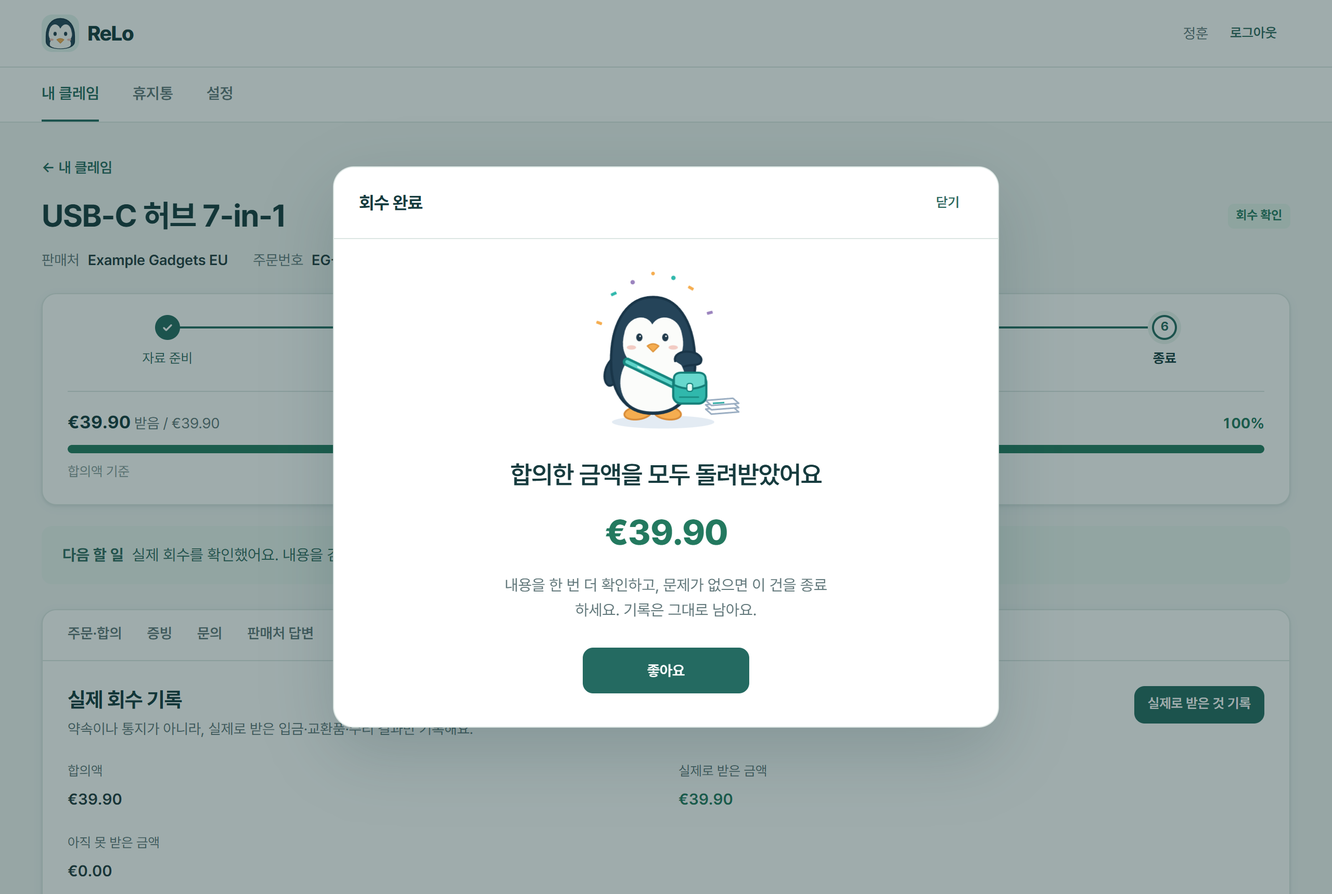
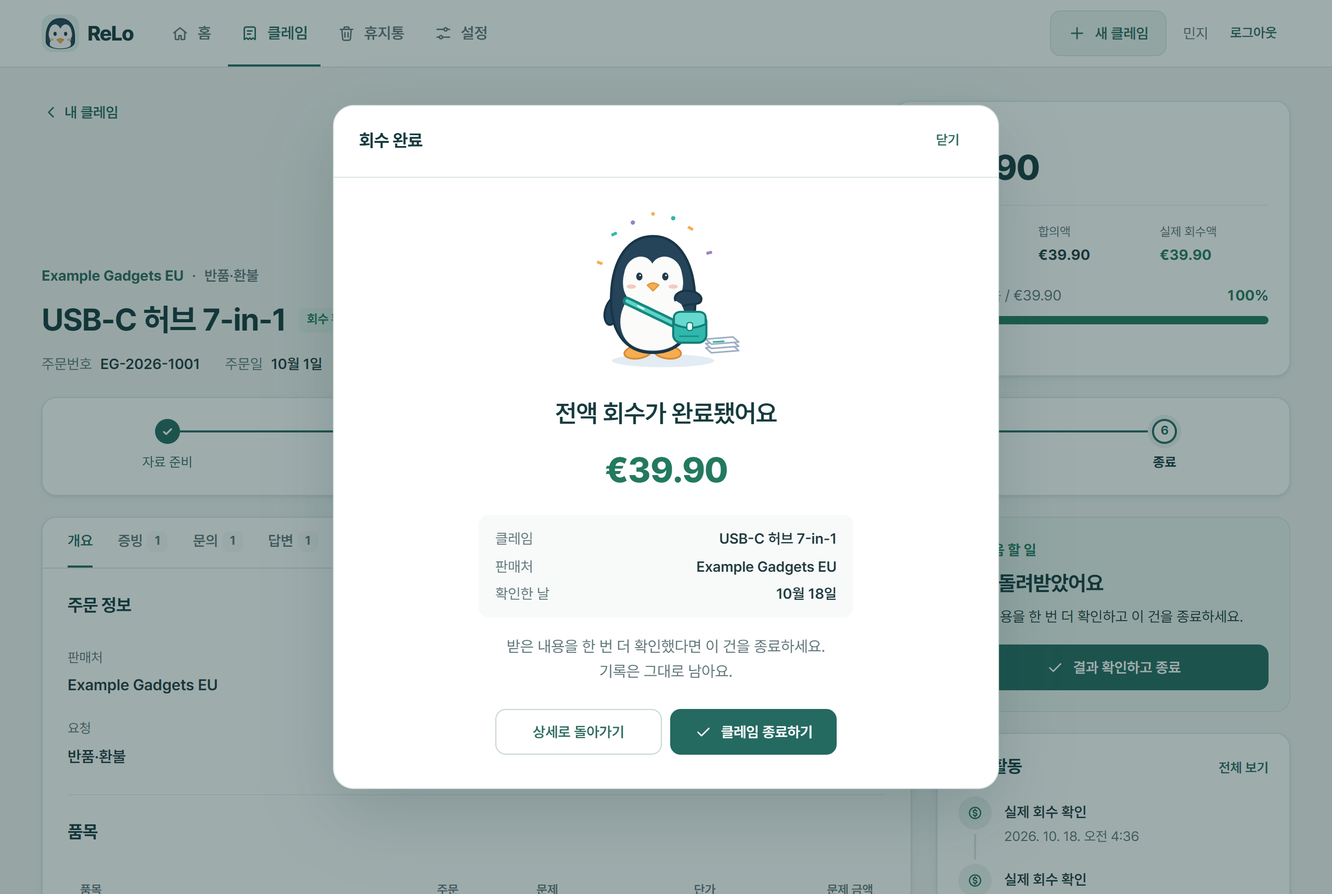
Document the redesign and refresh the screenshots
- DESIGN.md: principles (next action, judge rather than type), navigation,
  per-screen structure, new components (summary/action/claim cards, mini steps,
  timeline, choice cards, amount input, stepper, AI result card), wizard and
  preview behaviour, next-action order, tag colour tokens, pages.css.
- AI.md: POST /api/ai/extract for reading an order document before the claim
  exists (checked like an upload, not stored, usage logged without a claim).
- ARCHITECTURE.md: pages/components folders, handler keys incl. form:<id> and drop.
- README: new screens and features, walkthrough via the next-action card,
  history row, decisions (no extra libraries, wizard in a dialog), follow-ups.
- Screenshots regenerated with sample data (adds claims, wizard, mobile home).
- Claim detail: back link moves into the hero so the left column has no gap.

diff --git a/src/web/styles/pages.css b/src/web/styles/pages.css
@@ -63,8 +63,10 @@
 .back-link { display: inline-flex; align-items: center; gap: var(--space-1); width: fit-content; font-size: var(--text-md); font-weight: 600; text-decoration: none; }
 .back-link .icon { width: 18px; height: 18px; }
 .back-link:hover { text-decoration: underline; }
-.hero { display: grid; grid-template-columns: minmax(0, 1fr) 380px; gap: var(--space-6); align-items: end; }
-.hero-main { display: grid; gap: var(--space-3); min-width: 0; }
+/* Left: the way back at the top, who and what at the bottom, level with the money card. */
+.hero { display: grid; grid-template-columns: minmax(0, 1fr) 380px; gap: var(--space-6); }
+.hero-main { display: flex; flex-direction: column; justify-content: space-between; gap: var(--space-5); min-width: 0; }
+.hero-title { display: grid; gap: var(--space-3); }
 .hero-vendor { display: flex; flex-wrap: wrap; align-items: center; gap: var(--space-2); font-size: var(--text-md); font-weight: 700; color: var(--green-ink); }
 .hero-vendor span { color: var(--muted); font-weight: 600; }
 .hero-vendor span::before { content: '·'; margin-right: var(--space-2); }

diff --git a/docs/DESIGN.md b/docs/DESIGN.md
@@ -2,13 +2,19 @@
 
 화면을 새로 만들거나 고칠 때 이 문서를 기준으로 삼는다. 값은 모두 `src/web/styles/base.css`의 토큰으로 구현되어 있다. 화면 코드에 숫자를 직접 쓰지 말고 토큰을 쓴다.
 
+스타일 파일: `base.css`(토큰, 기본 글자, 상단 바·하단 탭), `components.css`(버튼·카드·폼·다이얼로그처럼 여러 화면에서 쓰는 조각), `pages.css`(홈·목록·상세·설정의 배치), `dori.css`(도리와 축하 장면).
+
 ## 1. 원칙
 
-1. **돈과 사실이 주인공이다.** 사용자가 가장 궁금한 것은 "아직 못 받은 돈"이다. 화면마다 그 정보가 가장 먼저 보이게 한다.
-2. **한 화면에 주요 행동은 하나.** 주요 버튼(채운 초록 버튼)은 화면당 하나만 둔다. 나머지는 테두리 버튼이나 텍스트 버튼으로 한다.
-3. **조용한 바탕에 기억할 요소 하나.** 그 요소는 도리(펭귄)와 "받아야 할 금액" 숫자다. 나머지는 장식하지 않는다.
-4. **모션은 사용자 행동의 결과를 보여 줄 때만 쓴다.** 무언가 열리고, 닫히고, 저장됐다는 것을 알릴 때만 움직인다. 들어올 때마다 미끄러지는 장식 애니메이션은 쓰지 않는다.
-5. **누구나 쓸 수 있어야 한다.** 키보드, 스크린리더, 큰 글씨, 모션 줄이기 설정, 375px 휴대폰까지 지원한다.
+ReLo는 "해외 직구 클레임을 돈 중심으로 쉽게 신청하고, 단계별로 안심하고 추적하는 개인용 서비스"다. 홈은 **현황판**, 클레임 상세는 **실행판**, 새 클레임은 **단계형 신청**이다.
+
+1. **돈과 사실이 주인공이다.** 사용자가 가장 궁금한 것은 "아직 못 받은 돈"이다. 화면마다 그 정보가 가장 먼저 보이게 한다. 청구액·합의액·실제 회수액·미회수 금액을 항상 나눠서 보여 준다.
+2. **한 화면에 주요 행동은 하나.** 주요 버튼(채운 초록 버튼)은 화면당 하나만 둔다. 나머지는 테두리 버튼이나 텍스트 버튼으로 한다. 상태 직접 바꾸기·정정·삭제·복원 같은 드문 행동은 접어 둔 2차 위치(예: 상세의 "사건 관리")에 둔다.
+3. **다음 행동을 하나로 알려 준다.** 사용자가 "이제 뭘 하지?"를 고민하지 않게 한다. 클레임마다 다음 할 일 하나와 그 일을 하는 버튼을 보여 준다(`selectNextAction`).
+4. **입력보다 판단.** AI와 문서 읽기가 칸을 채우고, 사용자는 확인한다. AI가 채운 칸은 보라색으로 표시하고, 사용자가 고치면 표시가 사라진다. 저장은 항상 사용자가 한다.
+5. **조용한 바탕에 기억할 요소 하나.** 그 요소는 도리(펭귄)와 "받아야 할 금액" 숫자다. 나머지는 장식하지 않는다.
+6. **모션은 사용자 행동의 결과를 보여 줄 때만 쓴다.** 무언가 열리고, 닫히고, 저장됐다는 것을 알릴 때만 움직인다. 들어올 때마다 미끄러지는 장식 애니메이션은 쓰지 않는다.
+7. **누구나 쓸 수 있어야 한다.** 키보드, 스크린리더, 큰 글씨, 모션 줄이기 설정, 375px 휴대폰까지 지원한다.
 
 ## 2. 레이아웃과 정렬
 
@@ -18,12 +24,54 @@
 
 | 이름 | 폭 | 바깥 여백 | 내비게이션 |
 |---|---|---|---|
-| 모바일 | ≤ 640px | 16px | 하단 탭 바 (아이콘+글자, 안전 영역 포함) |
-| 태블릿 | 641–1023px | 24px | 상단 탭 |
-| 데스크톱 | ≥ 1024px | 32px | 상단 탭 |
+| 모바일 | ≤ 640px | 16px | 하단 탭 바 5칸 (아이콘+글자, 안전 영역 포함) |
+| 태블릿 | 641–1023px | 24px | 상단 바 하나에 메뉴 |
+| 데스크톱 | ≥ 1024px | 32px | 상단 바 하나에 메뉴 |
 
 - 본문 최대 폭은 1200px이고 가운데에 둔다(`margin-inline: auto`).
 - 문단 최대 폭은 70자(`max-width: 70ch`)다.
+
+### 내비게이션
+
+| 화면 | 주소 | 데스크톱·태블릿 | 모바일 하단 탭 |
+|---|---|---|---|
+| 홈 | `#/` | 상단 바 메뉴 | 1번째 |
+| 클레임 | `#/claims`, `#/claims/:id[/:tab]` | 상단 바 메뉴 | 2번째 |
+| 새 클레임 | (다이얼로그) | 상단 바 오른쪽 고정 버튼 "새 클레임"(`btn accent`) | 3번째, 가운데 **떠 있는 초록 원 버튼** "새 신청" |
+| 휴지통 | `#/trash` | 상단 바 메뉴 | 4번째 |
+| 설정 | `#/settings` | 상단 바 메뉴 | 5번째 |
+
+- 상단 바는 화면 위에 붙어 있다(`position: sticky`). 높이 64px, 모바일 56px.
+- "새 클레임" 버튼은 어디서나 보이지만 페이지의 주요 행동보다 튀지 않게 연한 초록(`btn accent`)으로 한다. 모바일에서는 하단 탭의 "새 신청"이 대신한다.
+- 페이지가 바뀌면 맨 위에서 시작한다. 클레임 상세 안에서 탭만 바꿀 때는 스크롤 위치를 지킨다.
+
+### 화면 구성
+
+**홈 (현황판)** — 로그인하자마자 "얼마가 남았고, 무엇부터 할지"를 안다.
+1. 인사: "안녕하세요, ○○님" + 한 문장.
+2. 요약 카드 4개: **아직 돌려받지 못한 금액**(초록으로 채운 큰 카드, 통화별 한 줄씩) · 진행 중 건수 · 답변 대기 건수 · 이번 달 회수 금액. 못 받은 금액은 진행 중인 **반품·환불** 건만 센다(교환·AS는 돈이 아니라 물건·수리를 받는다).
+3. 지금 해야 할 일: 바로 할 수 있는 일부터 최대 3건(`selectTodo`). 줄마다 상품명·판매처, 다음 할 일, 상태 배지, 남은 금액·회수율, 그 일을 시작하는 버튼.
+4. 진행 중인 클레임: 클레임 카드 최대 4장 + "전체 보기".
+5. 최근 활동(오른쪽 열, 데스크톱에서 화면에 붙어 따라옴): 여러 클레임의 기록을 시간순으로.
+- 클레임이 하나도 없으면 도리 + "아직 등록한 클레임이 없어요" + [첫 클레임 등록하기] + 진행 순서 5단계 안내만 보여 준다.
+
+**클레임 목록** — 검색, 상태 칩(전체·진행 중·분쟁·종료·포기, 건수 표시), 판매처·통화 선택, 정렬(최근 수정 순·미회수 금액 순·진행 단계 순). 미회수 금액 순은 통화가 다르면 비교할 수 없으므로 **통화별로 묶은 뒤** 금액 순으로 놓고, 그렇다고 결과 줄에 적는다. 카드는 데스크톱 3열, 모바일 1열.
+
+**클레임 상세 (실행판)**
+- 위: 왼쪽에 판매처·요청 종류, 상품명 + 상태 배지, 주문번호·주문일·마지막 저장. 오른쪽에 **금액 카드**(못 받은 금액 크게 → 청구액·합의액·실제 회수액 → 회수 막대).
+- 그 아래 전체 폭의 6단계 진행 카드.
+- 데스크톱은 2열: 왼쪽 탭(개요·증빙·문의·답변·회수 기록·활동 내역, 기록 수 표시), 오른쪽 위에서부터 **다음 할 일 카드** → 최근 활동 5건 → 접힌 "사건 관리"(상태 직접 바꾸기, 휴지통으로 이동).
+- 모바일·태블릿은 1열: 금액 카드 → 단계 → 다음 할 일 → 탭(칩 모양 버튼) → 사건 관리 → 최근 활동.
+
+**새 클레임 (단계형 신청)** — 다이얼로그 하나에 5단계: ① 기본 정보(판매처·주문번호·주문일·상품명·처리 방식) ② 주문·금액(통화·품목·청구액·합의액) ③ 문제 내용(한국어 설명·영문 설명·판매처 기한) ④ 증빙 ⑤ 확인. 데스크톱은 가운데 720px, 모바일은 화면 전체. 자세한 동작은 7장 "단계 진행"과 9장.
+
+**문의 준비** — 문의 탭은 "받는 곳" 띠 → 초안 도구(AI로 초안·기본 틀·직접 작성) → 메시지 카드(상태 배지, 제목, 본문, 복사·수정·보냈어요). 편집 다이얼로그는 980px로 넓게, 왼쪽에 받는 곳·AI 요약·**보내기 전에 채울 항목**·제목·본문, 오른쪽에 사건 요약·증빙 목록·최근 답변을 둔다. 모바일은 화면 전체에 위아래로.
+
+**설정 (개인 데이터 관리 센터)** — 한 열 카드: 계정 정보 → 이메일 인증 → AI 기능 → 내 데이터 내보내기 → (간격을 두고 빨간 테두리) 회원 탈퇴.
+
+**휴지통** — 지운 클레임 카드(삭제일, 복원 버튼)와 "저절로 지워지지 않고 탈퇴 때만 영구 삭제된다"는 안내.
+
+**로그인·가입** — 가운데 카드. 아래에 약속 세 줄: 내 기록은 본인만 본다 · AI는 동의한 경우에만 · 판매처에 대신 연락하거나 돈을 받지 않는다.
 
 ### 무엇을 가운데에 두나
 
@@ -34,7 +82,8 @@
 | 회수 완료 축하 | 다이얼로그 안 **정중앙**: 도리(180px) → 제목 → 금액 → 안내 → 버튼 |
 | 진행 단계 | 클레임 제목 아래 카드에 **가로 전체 폭**으로 6칸을 고르게 나눈다 |
 | 도리 준비 화면 | 다이얼로그 안에서 **정중앙** |
-| 다이얼로그 | 데스크톱·태블릿은 화면 **정중앙**. 모바일은 **하단 시트**(폭 100%, 아래에 붙음) |
+| 다이얼로그 | 데스크톱·태블릿은 화면 **정중앙**. 모바일은 **하단 시트**(폭 100%, 아래에 붙음). 새 클레임과 문의 편집은 모바일에서 **화면 전체** |
+| 다음 할 일 카드 | 데스크톱은 상세 오른쪽 열 맨 위, 모바일은 단계 카드 바로 아래 |
 | 토스트 | **하단 가운데**. 모바일은 하단 탭 바 위 |
 | 목록, 표, 폼, 상세 내용 | **왼쪽 정렬.** 읽는 흐름을 지키기 위해 가운데 정렬하지 않는다 |
 | 금액 숫자 열 | 오른쪽 정렬, `tabular-nums` |
@@ -91,6 +140,8 @@
 - 주요 색 `--green` #246a61 하나로 행동을 표시한다.
 - AI가 만든 내용에만 보라빛 `--ai-*`를 쓴다.
 - 경고는 `--warning-*`, 위험은 `--danger`.
+- 상태 배지와 태그는 `--tag-*` 짝(연한 바탕 + 진한 글자)을 쓴다: 회수(초록), 답변 대기·환불 통지(파랑), 검토(보라), 분쟁·포기(주황), 종료(회색).
+- 초록으로 채운 면(홈의 못 받은 금액 카드, 선택된 칩) 위의 보조 글자는 `--on-green-muted`다.
 - 본문 대비 4.5:1 이상. 색이 들어간 바탕 위에 회색 글자를 쓰지 않는다.
 - 그라데이션은 쓰지 않는다. 그림자는 초록빛 섞인 옅은 그림자 두 단계(`--shadow-sm`, `--shadow-lg`)만 쓴다.
 
@@ -102,14 +153,27 @@
 | 입력칸 | 높이 44px, 1px 테두리, `--radius-md`, 모바일 글자 16px(확대 방지) | 초점: 테두리 초록 + 링. 오류: 빨간 테두리 + 아래 문장 |
 | 카드·패널 | `--radius-lg`, 1px 테두리 + `--shadow-sm` | 카드 안에 카드를 넣지 않는다 |
 | 상태 배지 | 높이 24px, `--radius-sm`, 12px 글자 | 상태별 색 |
-| 탭 | 글자 + 아래 2px 표시줄 | 현재 탭은 굵게 + 초록 표시줄 |
-| 다이얼로그 | 최대 폭 640px, `--radius-xl`, 위 제목줄 고정 | 열림·닫힘 모션은 8장 |
+| 탭 | 글자 + 아래 2px 표시줄, 기록 수 배지 | 현재 탭은 굵게 + 초록 표시줄. 모바일은 칩 모양 버튼 줄(스와이프 아님), 현재 탭은 초록으로 채움 |
+| 아이콘 | 24px 격자 선 아이콘(`icons.view.mjs`), `currentColor`, 보통 18–20px | 항상 글자와 함께 쓰고 `aria-hidden`. 이모지는 쓰지 않는다 |
+| 칩 | 높이 36px(터치 44px), `--radius-md` | 필터용. 선택되면 초록으로 채우고 건수는 `--on-green-muted` |
+| 요약 카드 | 홈 맨 위 4장. 큰 카드는 초록으로 채우고 금액 40px(모바일 34px) | 금액은 통화별 한 줄. 데스크톱 4열, 태블릿은 큰 카드 한 줄 + 3열, 모바일은 큰 카드 + 2열 |
+| 행동 카드 (다음 할 일) | 연한 초록 면, 제목 20px + 한 문장 + 버튼 | 화면의 주요 버튼은 여기에 둔다. 주의가 필요하면(분쟁, 추가 증빙 요청, 다시 써야 할 초안) 노란 면, 끝난 건은 회색 면 |
+| 클레임 카드 | 카드 전체가 링크(제목 링크가 카드를 덮음) | 머리(상품명·판매처·배지) → 미니 진행 → 청구·합의·회수·미회수 4칸 → 회수 막대 → 마지막 활동. 분쟁 건은 노란 테두리. 카드 안 버튼(복원)은 링크 위에 둔다 |
+| 미니 진행 | 6칸 짧은 막대(높이 6px) + 현재 단계 이름과 "3/6" | 지난 칸 초록, 현재 칸 연한 초록 + 테두리(분쟁이면 노랑) |
+| 활동 타임라인 | 32px 원형 아이콘 + 한 줄 + 시간, 세로 연결선 | 홈은 클레임 이름도 함께. 상세의 활동 내역은 바뀐 칸을 "합의액: 없음 → €39.90"처럼 글로 보여 주고, 원본 기록은 접어 둔다 |
+| 증빙 카드 | 64px 미리보기(사진은 썸네일, PDF는 아이콘) + 이름·종류·크기·날짜 + 버튼 줄 | 드래그해서 놓는 영역은 점선, 끌어오는 동안 초록 |
+| 선택 카드 | 라디오를 감싼 큰 카드(아이콘 + 이름 + 한 줄 설명) | 처리 방식, 답변 종류. 선택되면 초록 테두리 + 연한 초록 면 |
+| 금액 입력 | 입력칸 왼쪽 안에 통화 코드 | 통화를 바꾸면 모든 금액 칸의 통화 코드가 함께 바뀐다 |
+| 단계 진행 (새 클레임) | 28px 번호 원 5개와 연결선, 아래에 단계 이름 | 지난 단계는 초록 원 + 체크(누르면 그 단계로 돌아감), 현재 단계는 초록 테두리 + 고리. 아래 버튼은 [이전] [다음], 마지막 단계에서만 [등록하기] |
+| AI 결과 카드 | 보라 면, "미리보기" 태그 | 요약 → 추천 유형·언급된 금액·기한 → **추천 다음 행동** → 번역(접힘). 저장 전 사용자가 확인한다 |
+| 다이얼로그 | 최대 폭 640px(새 클레임 720px, 문의 편집 980px), `--radius-xl`, 위 제목줄 고정 | 열림·닫힘 모션은 8장 |
 | 토스트 | `--radius-md`, 진한 초록 바탕 | 5초 뒤 사라짐, `aria-live="polite"` |
 | 빈 상태 | 가운데 정렬, 제목 + 한 문장 + 버튼 1개 | |
 | 불러오는 중 | 실제 모양을 닮은 회색 막대(스켈레톤) | 1초 선형 반복 깜빡임 |
 | 진행 단계 | 지름 24px 원 6개와 2px 연결선. 단계: 자료 준비 → 문의 → 답변 대기 → 합의 → 회수 → 종료 | 지난 단계는 초록 원+체크, 현재 단계는 초록 테두리+4px 연한 고리+굵은 글자, 남은 단계는 회색. 분쟁이면 현재 단계를 노란색으로 하고 "(분쟁)"을 붙인다. 포기면 전체를 흐리게 하고 안내 문장을 단다 |
 | 회수 막대 | 네이티브 `<progress>`, 높이 8px(목록은 6px), 모서리 4px | "받은 것 / 목표"와 %를 같이 쓴다. 목표는 합의액(없으면 청구액), 교환은 수량, AS는 수리 확인 여부 |
-| 도리 | sm 88px, md 120px, lg 180px. 장식이라 스크린리더에서 숨긴다 | 쓰는 곳: 로그인·가입(인사), 첫 빈 대시보드·빈 휴지통·찾을 수 없음(서류 든 자세), 문의 준비(정리 동작), 회수 완료(축하). 탭 안 빈 상태에는 쓰지 않는다(반복 금지) |
+| 도리 | sm 88px, md 120px, lg 180px. 장식이라 스크린리더에서 숨긴다 | 쓰는 곳: 로그인·가입(인사), 첫 빈 홈·빈 클레임 목록·빈 휴지통·찾을 수 없음(서류 든 자세), 문의 준비(정리 동작), 회수 완료(축하). 탭 안 빈 상태에는 쓰지 않는다(반복 금지) |
+| 회수 완료 축하 | 도리 → "전액 회수가 완료됐어요" → 금액 → 클레임·판매처·확인한 날 → [상세로 돌아가기] [클레임 종료하기] | 게임처럼 화려하지 않게, 안심과 성취감 위주 |
 
 ## 8. 모션: 언제, 얼마나
 
@@ -139,6 +203,8 @@
 | 모바일 하단 시트가 열릴 때 | 화면 아래에서 위로(`translateY(100%→0)`) | 320ms ease-out (닫힘 200ms) |
 | 토스트가 나타날 때 | 아래 12px에서 올라오며 나타남 | 220ms ease-out (사라짐 150ms) |
 | 페이지·탭을 바꿀 때 | 새 내용이 투명→불투명(미끄러짐 없음) | 160ms ease-out, 경로가 바뀔 때만 |
+| 새 클레임의 단계를 바꿀 때 | 새 단계가 투명→불투명 | 160ms ease-out |
+| 모바일 "새 신청" 원 버튼을 누를 때 | `scale(.96)` | 100ms |
 | 목록을 처음 불러올 때 | 스켈레톤 깜빡임 | 1s linear 반복. 데이터가 오면 바로 교체, 줄마다 순서대로 나타나기 없음 |
 | 도리가 문의를 준비할 때 | 서류 정리 반복 동작 | 1.6s 반복. 최소 2.5초 보여 줌. 취소하면 바로 멈춤 |
 | 로그인·가입 화면이 열릴 때 | 도리가 날개를 흔든다 | 1.2s ease-in-out × 2회, 화면이 바뀔 때만 |
@@ -155,6 +221,16 @@
   - 브라우저 기본 말풍선은 쓰지 않는다. 같은 자리에 한국어 문장을 띄운다.
   - 서버가 거절하면 응답의 `field`(예: `claimedAmount`, `items.0.unitPrice`) 자리에 띄운다. 칸을 특정할 수 없는 오류만 폼 맨 아래에 둔다.
   - 그 칸을 다시 고치기 시작하면 문장이 사라진다.
+- **단계형 폼(새 클레임)**:
+  - [다음]은 지금 단계의 칸만 검사한다. 틀린 칸이 있으면 단계가 넘어가지 않는다.
+  - 마지막 단계 전에는 입력칸에서 Enter가 [다음]과 같다. 여러 줄 입력칸의 Enter는 줄 바꿈이다.
+  - 등록 때 서버가 거절한 칸이 다른 단계에 있으면 그 단계로 돌아가 칸 아래에 문장을 띄운다. 접힌 칸(판매처 기한)은 펼친다.
+  - 품목의 "문제 수량 × 단가" 합계를 보여 주고 [청구액으로 쓰기]를 제안한다. 같으면 "청구액과 같아요"라고만 쓴다.
+  - 4단계에서 고른 증빙은 클레임이 만들어진 뒤에 하나씩 올린다. 형식·크기가 틀린 파일은 고르는 순간 알린다. 올리지 못한 파일이 있으면 클레임은 그대로 두고 이름을 알려 증빙 탭으로 보낸다.
+  - "주문서로 자동 채우기"로 읽은 파일은 4단계 증빙 목록에도 들어간다.
+- **AI가 채운 칸**: 보라 테두리와 연한 보라 면. 사용자가 그 칸을 고치면 표시가 사라진다. 채운 항목을 AI 안내 상자에 적는다.
+- **저장 전 미리보기(회수 기록)**: 금액이나 수량을 치는 대로 "실제 회수액 €0.00 → €20.00, 회수율 0% → 50%"를 보여 준다. 목표를 넘으면 노란 경고, 딱 맞으면 "합의액을 모두 받게 돼요".
+- **답변 기록**: 답변 종류를 고르면 저장하면 무엇이 바뀌는지 한 줄로 알려 준다(예: "분쟁으로 바뀌어요").
 - **그 밖의 오류**: 토스트로 띄우고, 무엇을 하면 되는지 쓴다.
 - **AI 기다림**: 실제 응답은 7~19초가 걸린다. 누른 버튼 **바로 아래**에 보라색 진행 줄을 띄운다.
   - 순서: 회전 표시 → "AI가 ○○하는 중…" → "보통 10초 안팎 걸려요" → 지난 초 → [취소]
@@ -169,6 +245,7 @@
 - **토스트 위치**: 다이얼로그가 열려 있으면 다이얼로그 안 **위쪽 가운데**에 띄운다. 아래 버튼을 가리지 않고, 모달 뒤에 숨지도 않는다.
 - **오프라인**: 맨 위 띠. 연결이 돌아오면 토스트로 알린다.
 - **이메일 미인증**: 맨 위 초록 띠(`--green-soft`). 문장은 왼쪽, '인증 메일 다시 받기' 테두리 버튼은 오른쪽(본문 열에 맞춤). 모바일은 버튼을 문장 아래 전체 폭으로 내린다. 인증하면 사라진다. 주요 버튼이 아니므로 채운 버튼을 쓰지 않는다.
+- **다음 할 일 순서**(`selectNextAction`): 휴지통 → 종료 → 포기 → 모두 받음(종료하기) → 분쟁 → 증빙 없음 → 초안 없음 → 다시 써야 할 초안 → 보내지 않은 초안 → 답변 대기 → 추가 증빙 요청 → 합의액 없음(환불) → 회수 기록. 홈의 "지금 해야 할 일"은 바로 할 수 있는 일(종료·분쟁·회수·합의액·증빙 보강·보내기·초안·증빙)을 먼저, 기다리는 일(답변 대기)을 나중에 놓는다.
 - **메일 링크로 여는 화면**(인증·재설정): 인증은 페이지가 아니라 동작이라 결과를 토스트로 알리고 대시보드나 로그인으로 보낸다. 재설정은 로그인 카드와 같은 가운데 카드다. 비밀번호 재설정 요청 뒤에는 계정 유무와 상관없이 같은 '메일함을 확인하세요' 화면을 보여 준다.
 - **되돌릴 수 없는 행동**: 확인 다이얼로그를 띄운다(삭제, 탈퇴). 탈퇴는 비밀번호까지 받는다.
 

diff --git a/README.md b/README.md
@@ -6,15 +6,19 @@
 
 ## 화면
 
-| 로그인 | 대시보드 |
+홈은 **현황판**(얼마가 남았고 무엇부터 할지), 클레임 상세는 **실행판**(금액·단계·다음 할 일), 새 클레임은 **5단계 신청**이다.
+
+| 홈 (현황판) | 클레임 목록 |
 |---|---|
-| ![로그인](docs/screenshots/login.png) | ![대시보드](docs/screenshots/dashboard.png) |
-| **클레임 상세 (진행 단계·회수율)** | **회수 완료 축하** |
-| ![클레임 상세](docs/screenshots/claim-detail.png) | ![회수 완료](docs/screenshots/celebrate.png) |
+| ![홈](docs/screenshots/dashboard.png) | ![클레임 목록](docs/screenshots/claims.png) |
+| **클레임 상세 (금액 카드·진행 단계·다음 할 일)** | **새 클레임 1단계 (주문서로 자동 채우기)** |
+| ![클레임 상세](docs/screenshots/claim-detail.png) | ![새 클레임](docs/screenshots/wizard.png) |
+| **회수 완료** | **로그인** |
+| ![회수 완료](docs/screenshots/celebrate.png) | ![로그인](docs/screenshots/login.png) |
 
-<img src="docs/screenshots/mobile-claim.png" alt="휴대폰 클레임 화면" width="260">
+<img src="docs/screenshots/mobile-home.png" alt="휴대폰 홈 화면" width="260"> <img src="docs/screenshots/mobile-claim.png" alt="휴대폰 클레임 화면" width="260">
 
-휴대폰(390px): 하단 탭 바, 분쟁 건은 노란 단계로 표시된다.
+휴대폰(390px): 하단 탭 바 가운데에 "새 신청" 버튼이 떠 있다. 분쟁 건은 노란 단계와 노란 "다음 할 일"로 표시된다.
 
 ## 주요 기능
 
@@ -24,29 +28,37 @@
 - 비밀번호를 잊으면 재설정 링크(30분, 한 번만)를 받는다. 비밀번호를 바꾸면 모든 기기에서 로그아웃된다.
 - 설정에서 내 데이터 내보내기(JSON), 회원 탈퇴(전체 삭제), AI 처리 동의·철회를 할 수 있다.
 
+### 홈과 목록
+- **홈**: 아직 돌려받지 못한 금액(반품·환불 건, 통화별), 진행 중·답변 대기 건수, 이번 달 회수 금액을 맨 위에 보여 준다. 그 아래 "지금 해야 할 일"(바로 할 수 있는 일부터 3건, 버튼 한 번으로 그 일을 시작), 진행 중인 클레임 카드, 최근 활동.
+- **클레임 목록**(`#/claims`): 검색, 상태 칩(진행 중·분쟁·종료·포기), 판매처·통화로 거르기, 정렬(최근 수정·미회수 금액·진행 단계). 미회수 금액 순은 통화별로 묶어서 정렬한다.
+
 ### 클레임
+- **새 클레임 5단계**: 기본 정보 → 주문·금액 → 문제 내용 → 증빙 → 확인. 단계마다 그 단계 칸만 검사하고, 품목의 "문제 수량 × 단가" 합계를 청구액으로 제안한다. 4단계에서 고른 증빙은 등록할 때 함께 올라간다. AI가 켜져 있으면 1단계에서 **주문서로 자동 채우기**를 쓸 수 있다.
+- **다음 할 일**: 상세 화면이 지금 할 일 하나와 그 버튼을 보여 준다(증빙 올리기 → 문의 초안 → 보냈어요 → 답변 기록 → 합의액 입력 → 회수 기록 → 종료). 분쟁·추가 증빙 요청·다시 써야 할 초안은 노란색으로 알린다. 상태를 직접 바꾸는 일과 휴지통 이동은 "사건 관리"에 접어 두었다.
 - **판매처·통화**: 판매처는 자유롭게 입력한다. 통화는 USD·EUR·GBP·JPY·CNY·KRW·CAD·AUD를 쓸 수 있고, 합계는 통화별로 따로 낸다.
 - **세 가지 금액을 따로 기록**: 청구액, 합의액, 실제로 받은 금액. 판매처의 "환불했다" 통지만으로는 입금으로 치지 않는다.
 - **진행 단계**: 자료 준비 → 문의 → 답변 대기 → 합의 → 회수 → 종료. 분쟁·포기도 표시한다.
 - **회수율 막대**: "받은 것 / 합의액(없으면 청구액)"을 보여 준다. 교환은 수량, AS는 수리 확인 여부로 계산한다.
-- **증빙**: 주문서·사진 등 PDF·PNG·JPG·WebP 파일(10MB까지)을 올린다. 본인만 열 수 있다.
-- **문의**: 영문 문의 초안을 만들고 고쳐서 버전으로 저장한다. 판매처에 직접 보낸 뒤 "보냈어요"를 기록한다. 사건 정보가 바뀌면 예전 초안은 다시 써야 한다고 표시한다.
-- **판매처 답변**: 받은 원문을 붙여 넣고 유형(추가 증빙 요청, 합의 안내, 환불 처리 통지, 거절 등)을 고른다.
+- **증빙**: 주문서·사진 등 PDF·PNG·JPG·WebP 파일(10MB까지)을 끌어 놓거나 골라서 올린다(여러 개 한 번에). 사진은 썸네일로 보인다. 본인만 열 수 있다.
+- **문의**: 영문 문의 초안(AI·기본 틀·직접 작성)을 만들고 고쳐서 버전으로 저장한다. 편집 창은 받는 곳, AI 요약, 보내기 전에 채울 항목, 제목·본문, 옆에 사건 요약·증빙·최근 답변을 보여 준다. 판매처에 직접 보낸 뒤 "보냈어요"를 기록한다. 사건 정보가 바뀌면 예전 초안은 다시 써야 한다고 표시한다.
+- **판매처 답변**: 받은 원문을 붙여 넣고 종류(추가 증빙 요청, 합의 안내, 환불 처리 통지, 거절, 기타)를 카드로 고른다. 고르면 저장했을 때 무엇이 바뀌는지 한 줄로 알려 준다.
 - **실제 회수 기록**: 입금·교환품·수리 결과를 증빙과 함께 기록한다.
+  - 금액을 치는 동안 "실제 회수액 €0.00 → €20.00, 회수율 0% → 50%"처럼 저장 후 모습을 미리 보여 준다.
   - 같은 거래가 두 번 세지지 않게 막는다.
   - 기록은 고치지 않고 "정정" 항목을 추가한다.
-  - 전부 돌려받은 순간 한 번 축하 화면이 뜬다.
-- **휴지통**: 지운 클레임도 증빙·기록은 남고, 복원할 수 있다.
+  - 전부 돌려받은 순간 한 번 축하 화면이 뜨고, 거기서 바로 종료할 수 있다.
+- **활동 내역**: 이 건에서 한 일을 시간순으로, 바뀐 칸은 "합의액: 없음 → €39.90"처럼 글로 보여 준다.
+- **휴지통**: 지운 클레임도 증빙·기록은 남고, 복원할 수 있다. 영구 삭제는 회원 탈퇴 때뿐이다.
 
 ### AI (Google Gemini, 사용자가 동의한 경우만)
-- 기능: 영문 문의 초안, 문제 설명 번역, 판매처 답변 번역·분석, 주문서 PDF·이미지에서 주문 정보 읽기.
-- **AI 결과는 미리보기다.** 사용자가 확인하고 저장해야 반영된다.
+- 기능: 영문 문의 초안, 문제 설명 번역, 판매처 답변 번역·분석(추천 다음 행동 포함), 주문서 PDF·이미지에서 주문 정보 읽기(올린 증빙에서, 또는 새 클레임 1단계에서 클레임을 만들기 전에).
+- **AI 결과는 미리보기다.** 사용자가 확인하고 저장해야 반영된다. AI가 채운 입력칸은 사용자가 고칠 때까지 보라색이다.
 - 기다리는 동안(실측 7~19초) 무엇을 하는 중인지, 몇 초 지났는지, 취소 버튼을 보여 준다.
 
 ### 화면 편의
 - 틀린 입력칸 바로 아래에 한국어 오류를 띄우고 그 칸으로 커서를 옮긴다.
 - 입력하던 창을 닫으려 하면 한 번 묻는다.
-- 휴대폰에서는 하단 탭 바를 쓰고, 창은 아래에서 올라오는 시트로 연다.
+- 휴대폰에서는 하단 탭 바(홈·클레임·새 신청·휴지통·설정)를 쓰고, 창은 아래에서 올라오는 시트로 연다. 새 클레임과 문의 편집은 화면 전체를 쓴다. 상세 탭은 칩 모양 버튼이다.
 - 펭귄 캐릭터 **도리**가 로그인 인사, 빈 화면, 문의 준비, 회수 완료 축하에 나온다.
 - 글꼴은 Pretendard를 함께 배포한다.
 
@@ -151,23 +163,24 @@ docs/         설계 문서와 화면 캡처
 
 ## 처음 온 사람을 위한 안내
 
-1. **한 바퀴 써 본다**: `npm install` → `npm start` → 데모 계정으로 로그인한 뒤 이 순서로 눌러 본다.
-   1. 새 클레임
+1. **한 바퀴 써 본다**: `npm install` → `npm start` → 데모 계정으로 로그인한 뒤 이 순서로 눌러 본다. 2번부터는 상세 화면의 **"다음 할 일" 카드 버튼**만 따라가도 된다.
+   1. 새 클레임(5단계, 4단계에서 증빙을 함께 골라도 된다)
    2. 증빙 올리기
    3. 문의 초안 → 저장 → 보냈어요
-   4. 판매처 답변 기록
-   5. 정보 수정에서 합의액 입력
+   4. 판매처 답변 기록(합의 안내)
+   5. 합의액 입력
    6. 실제로 받은 것 기록(전액이면 축하 화면)
-   7. 종료
+   7. 클레임 종료하기
 
-   AI를 보고 싶으면 `.env`에 `AI_PROVIDER=fake`를 넣는다.
+   AI를 보고 싶으면 `.env`에 `AI_PROVIDER=fake`를 넣는다(새 클레임 1단계의 "주문서로 자동 채우기"도 이걸로 볼 수 있다).
 2. **읽는 순서**: 이 README → [ARCHITECTURE.md](docs/ARCHITECTURE.md) → [DESIGN.md](docs/DESIGN.md) → [AI.md](docs/AI.md).
 3. **고칠 곳 찾기**:
 
    | 고치고 싶은 것 | 위치 |
    |---|---|
-   | 화면 모양·문구 | `src/web/views/` + `src/web/styles/` |
+   | 화면 모양·문구 | `src/web/views/` + `src/web/styles/` (공용 조각 `components.css`, 화면 배치 `pages.css`) |
    | 화면 상태·버튼 동작 | `src/web/viewmodels/` |
+   | "다음 할 일" 순서와 문구 | `src/web/viewmodels/claim-progress.mjs`의 `selectNextAction` |
    | API | `src/server/routes/` → `services/` |
    | 업무 규칙(금액·상태·검증) | `src/server/domain/` |
    | DB | `src/server/repositories/` (구조 변경은 `migrations/`에 새 파일) |
@@ -194,9 +207,10 @@ docs/         설계 문서와 화면 캡처
 | 2026-10-17 | [#3](https://github.com/jeonghun267/AI_Agent/pull/3) | AI 대기 안내와 취소, 입력칸 아래 오류 표시, 작성 중 닫기 경고, 토스트가 창 뒤에 가려지던 문제 수정 |
 | 2026-10-17 | [#4](https://github.com/jeonghun267/AI_Agent/pull/4) | 이메일 인증·비밀번호 재설정, Resend 발송 |
 | 2026-10-17 | [#5](https://github.com/jeonghun267/AI_Agent/pull/5) | UI 꾸미기: 진행 단계·회수율 막대, 도리 인사·축하, Pretendard 글꼴 |
+| 2026-10-18 | `feat/redesign` | **전체 UI/UX 리디자인**: 홈 현황판(못 받은 금액·지금 해야 할 일·최근 활동), 클레임 목록 화면(칩 필터·정렬), 상세 실행판(금액 카드·다음 할 일·사건 관리), 새 클레임 5단계 신청과 주문서로 자동 채우기(`POST /api/ai/extract`), 문의 준비 창·답변 카드·회수 미리보기, 모바일 "새 신청" 탭. 교환·AS 건은 못 받은 금액에서 뺐다 |
 
-검증 상태(2026-10-17):
-- `npm run verify` 통과: 단위·HTTP 57개, 브라우저 3개
+검증 상태(2026-10-18):
+- `npm run verify` 통과: 단위·HTTP 63개, 브라우저 3개
 - 실제 Gemini 4기능 확인 완료
 - 실제 메일 발송은 미확인 (아래 "다음 할 일")
 
@@ -212,6 +226,8 @@ docs/         설계 문서와 화면 캡처
 | AI는 동의한 사용자만 쓰고, 결과는 미리보기다 | 입력이 Google(국외)로 전송된다. 틀린 값이 그대로 저장되면 안 된다 |
 | Gemini 기본 모델 `gemini-3.5-flash-lite` | Google이 새 프로젝트용 저비용 모델로 권장한다(2026-10 기준) |
 | 빌드 도구·프레임워크 없음 | 의존성이 적어야 인수인계와 유지보수가 쉽다 |
+| 차트·검증·이미지 편집 라이브러리(Chart.js, validator.js, Cropper.js)를 넣지 않았다 | 회수 현황은 기본 `<progress>`와 CSS로 충분하고, 입력 검증은 서버 `domain/validation.mjs`가 맡는다. 증빙은 원본 그대로 두는 편이 낫다. 외부 CDN은 CSP(`default-src 'self'`)와 브라우저 시험이 막으므로 쓰려면 파일을 직접 넣어야 한다 |
+| 새 클레임은 페이지가 아니라 다이얼로그 안의 단계형 폼이다 | 다이얼로그는 열린 동안 다시 그리지 않아 입력이 지켜지고, 작성 중 닫기 경고·입력칸 아래 오류를 그대로 쓴다. 모바일에서는 화면 전체를 쓴다 |
 
 ## 다음 할 일
 
@@ -220,6 +236,9 @@ docs/         설계 문서와 화면 캡처
    - 판매처 포인트로 받은 것을 현금 입금과 따로 센다.
 2. **실제 메일 발송 확인**: 도메인이 정해지면 Resend 가입 → 도메인 인증 → `.env`에 `RESEND_API_KEY`·`MAIL_FROM` → `npm run mail:smoke`.
 3. **화면**: 다크 모드, 로그인 전 서비스 소개(랜딩) 페이지.
+   - 증빙 PDF 첫 장 미리보기: 지금은 PDF가 아이콘으로 보인다. CSP가 `blob:` 프레임을 막아서, 하려면 PDF.js를 저장소에 직접 넣어야 한다.
+   - 증빙 역할 태그(주문서·불량 사진·대화 캡처): 파일 표에 칸이 없어서 아직 고르지 않는다. 하려면 `migrations/`에 새 칸을 추가한다.
+   - 작성 중이던 새 클레임 초안을 새로고침 뒤에도 이어 쓰기(지금은 창을 닫을 때 경고만 한다).
 4. **상용화 전에 필요한 것**:
    - **Resend 운영 설정**: 발신 도메인 인증(SPF·DKIM), 운영용 키(발송 전용 권한). 반송·스팸 신고 처리(Resend 웹훅)는 아직 없다.
    - **가입 단계의 이메일 열거**: 가입하면 바로 로그인되므로, 이미 가입한 이메일에는 409로 답할 수밖에 없다(IP당 시간당 10회로 제한). 완전히 막으려면 "메일 링크를 연 뒤에 계정 생성"으로 흐름을 바꿔야 한다. 비밀번호 재설정 요청은 이미 계정 유무를 드러내지 않는다.

diff --git a/docs/AI.md b/docs/AI.md
@@ -9,7 +9,7 @@
    GEMINI_MODEL=            # 비우면 gemini-3.5-flash-lite
    AI_HOURLY_LIMIT=30       # 사용자 1명이 한 시간에 쓸 수 있는 AI 호출 수
    ```
-3. `npm run ai:smoke`로 네 기능을 실제로 한 번씩 호출해 확인한다.
+3. `npm run ai:smoke`로 네 기능을 실제로 한 번씩 호출해 확인한다. (새 클레임의 "주문서로 자동 채우기"는 주문 정보 읽기와 같은 프롬프트를 쓴다.)
 4. `npm start`로 서버를 띄운다.
 
 **모델 선택** (2026-10 Google 문서 기준)
@@ -27,6 +27,9 @@
 | 문제 설명 번역 | `POST /api/ai/translate-issue` | 입력한 한국어 문장 | 영문 | `ai/prompts/translate.mjs` |
 | 답변 분석 | `POST /api/claims/:id/ai/analyze-reply` | 붙여 넣은 판매처 답변 + 사건 요약 | 한국어 번역·요약, 추천 유형, 언급된 금액·기한 | `ai/prompts/translate.mjs` |
 | 주문 정보 읽기 | `POST /api/claims/:id/ai/extract` | 선택한 증빙 파일(PDF·이미지) | 판매처, 주문번호, 주문일, 통화, 품목, 원문 인용 | `ai/prompts/extract.mjs` |
+| 주문서로 자동 채우기 (새 클레임 1단계) | `POST /api/ai/extract` (파일 원본을 본문으로, 이름은 `X-File-Name`) | 사용자가 고른 주문서 파일(PDF·이미지). 클레임이 아직 없을 때 쓴다 | 위와 같음 | `ai/prompts/extract.mjs` |
+
+**주문서로 자동 채우기**는 업로드와 같은 형식·크기 검사(`checkFile`)를 거친 뒤 파일을 Gemini에 보내고, **서버에는 저장하지 않는다**. 사용 기록(`ai_usage`)은 `claim_id` 없이 남는다. 화면은 읽은 값으로 칸을 채워 보라색으로 표시하고, 그 파일을 4단계 증빙 목록에 넣어 둔다. 증빙은 사용자가 [등록하기]를 누른 뒤 일반 업로드로 저장된다.
 
 각 프롬프트 파일에는 세 가지가 함께 있다.
 - `build*Request`: 요청을 만든다. 사용자 데이터는 `<claim_facts>` 같은 태그 안에 넣어서 지시문과 구분한다.
@@ -36,7 +39,8 @@
 ## 안전장치
 
 - **동의**: `users.ai_consent_at`이 없으면 `403 ai_consent_required`를 돌려주고, 화면이 동의 창을 띄운다. 설정 화면에서 철회할 수 있다.
-- **자동 저장 없음**: AI 응답은 미리보기다. 금액·상태는 사용자가 저장해야 바뀐다. 주문서에서 읽은 합계는 청구액에 넣지 않는다(부분 청구일 수 있음).
+- **자동 저장 없음**: AI 응답은 미리보기다. 금액·상태는 사용자가 저장해야 바뀐다. 주문서에서 읽은 합계는 청구액에 넣지 않는다(부분 청구일 수 있음). 새 클레임에서는 품목의 "문제 수량 × 단가" 합계를 [청구액으로 쓰기]로 제안만 한다.
+- **보이는 표시**: AI 결과는 보라색 면과 "미리보기" 태그로 보여 주고, AI가 채운 입력칸은 사용자가 고칠 때까지 보라색이다. 답변 분석은 추천 유형을 미리 골라 두고 "추천 다음 행동"을 함께 보여 준다.
 - **출력 검증**: 형식이 틀리면 `502 ai_bad_output`. 통화·날짜·금액이 해석되지 않으면 null로 버린다.
 - **한도**: 사용자별 시간당 `AI_HOURLY_LIMIT`회. 실패한 호출도 센다.
 - **실패 처리**: 네트워크 오류·429·5xx는 1회 재시도하고, 시간 제한은 30초다. 초안 생성이 실패하면 화면이 기본 영문 틀로 대신한다.
